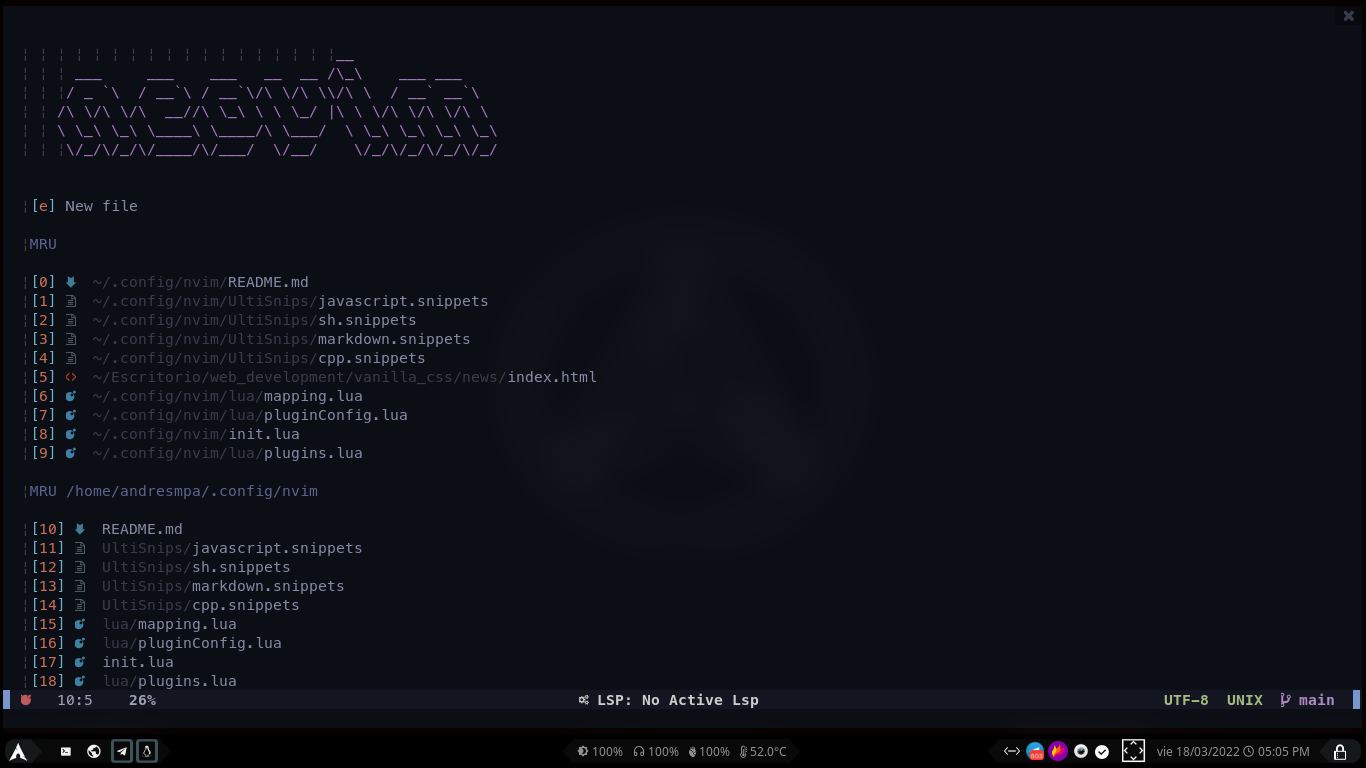
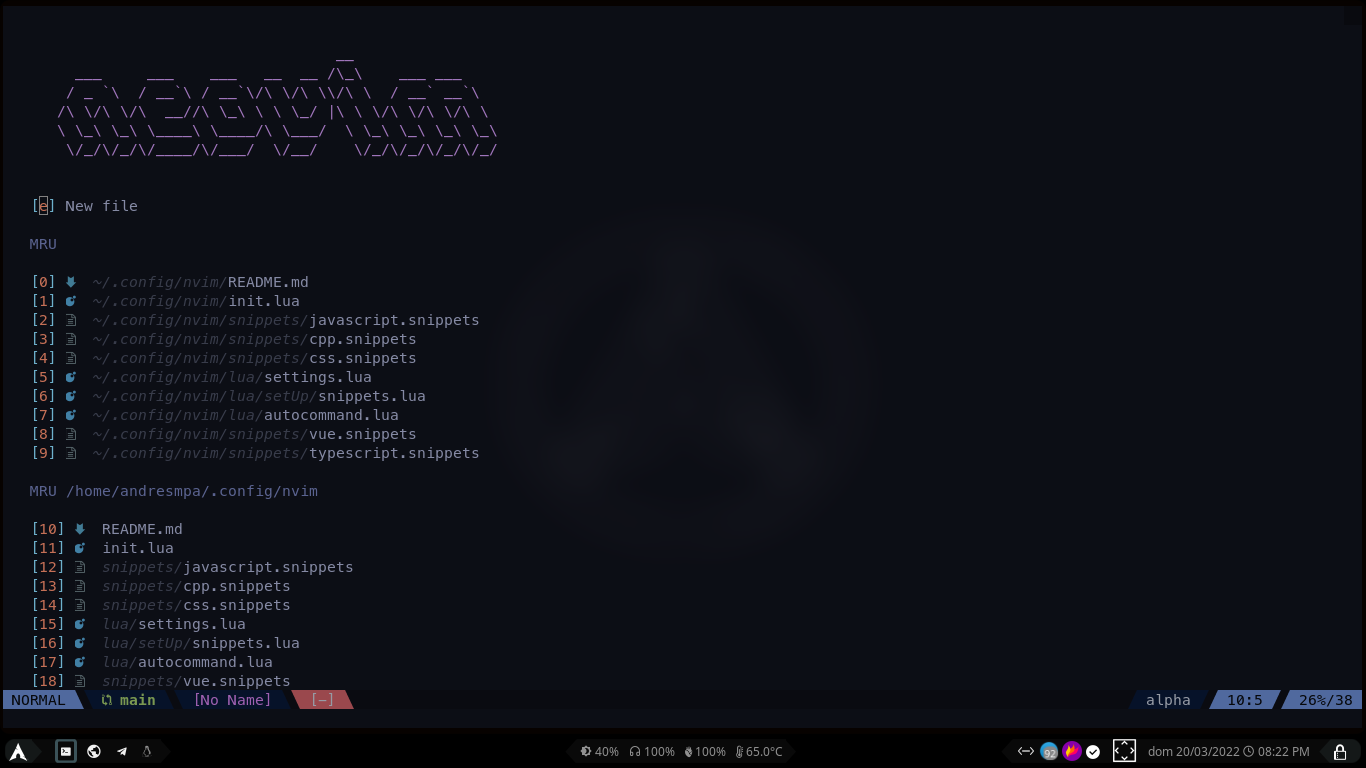
README
Updating documentation

diff --git a/README.md b/README.md
@@ -33,6 +33,7 @@ here then I move them to my previous versions, this is the fastest one also the 
 ![nvim 1](./.examples/nvim_1.png)
 ![nvim_2](./.examples/nvim_2.png)
 ![nvim_3](./.examples/nvim_3.png)
+![nvim_4](./.examples/nvim_4.png)
 
 ## Prerequisites
 
